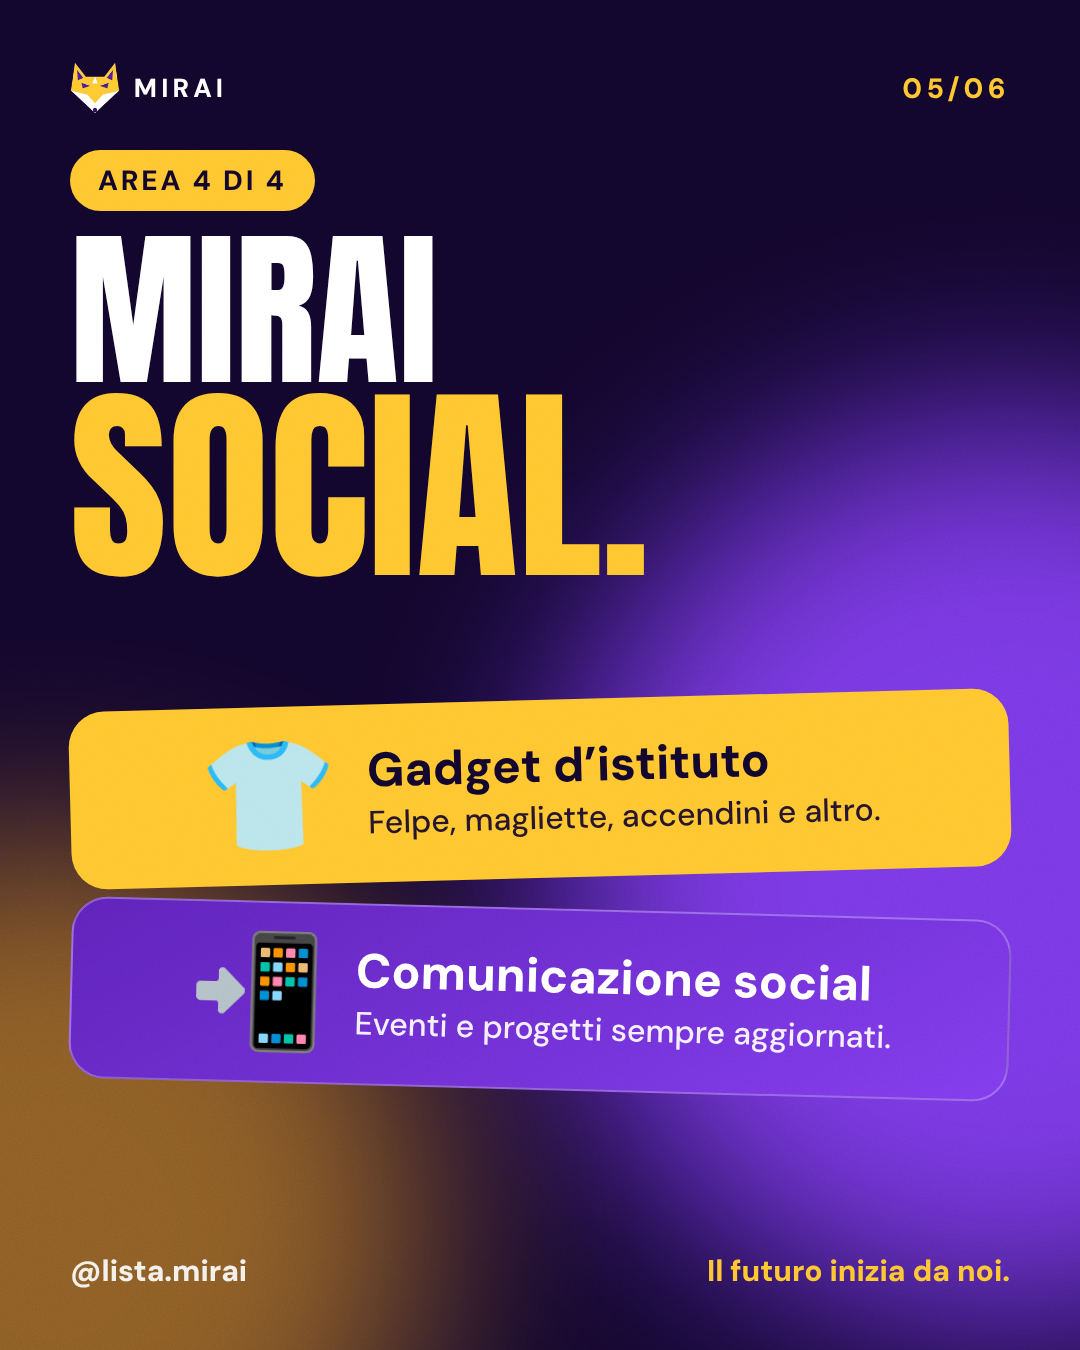
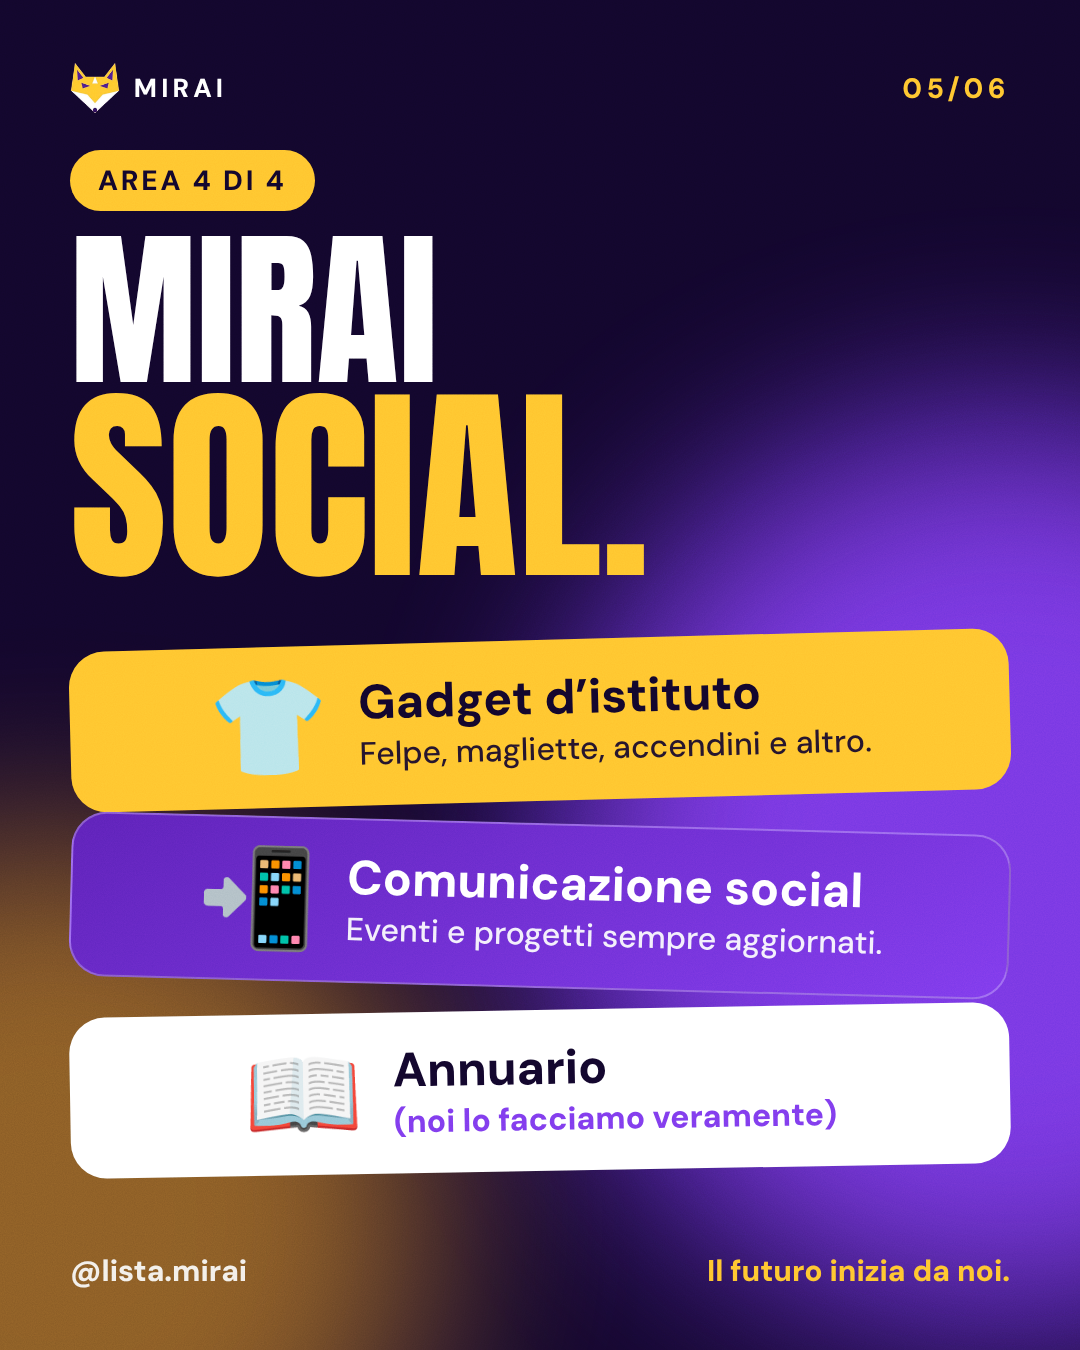
Programma: annuario in Mirai Social

Changed region(s): [[0.0611, 0.4667, 0.9472, 0.8711]]

diff --git a/social/campagna/campagna.html b/social/campagna/campagna.html
@@ -79,9 +79,10 @@ body{background:#000;font-family:"DM Sans",sans-serif}
 <section class="c p v2" id="g3"><div class="blob b1"></div><div class="blob b2"></div><div class="brand"><img src="../../assets/fox-96.png" alt="">Mirai</div><div class="n">04/06</div><div style="position:absolute;left:70px;right:70px;top:150px;z-index:8"><span class="kick">Area 3 di 4</span><div class="A" style="margin-top:20px"><div class="w" data-box="940" data-max="150">Le assemblee?</div><div class="g" data-box="940" data-max="170">Le scegliete voi.</div></div></div>
  <div style="position:absolute;left:70px;right:70px;top:570px;z-index:8;display:grid;grid-template-columns:1fr 1fr;gap:22px"><div class="card gold" style="flex:none;height:300px;justify-content:flex-start;gap:6px"><div class="A" style="font-size:60px;opacity:.5;line-height:1">01</div><b style="font-size:40px">I temi</b><span style="font-size:29px">Gli argomenti li propongono gli studenti.</span></div><div class="card vi" style="flex:none;height:300px;justify-content:flex-start;gap:6px"><div class="A" style="font-size:60px;opacity:.5;line-height:1">02</div><b style="font-size:40px">Più ospiti</b><span style="font-size:29px">Esperti e professionisti da portare a scuola.</span></div><div class="card li" style="flex:none;height:300px;justify-content:flex-start;gap:6px"><div class="A" style="font-size:60px;opacity:.5;line-height:1">03</div><b style="font-size:40px">Dibattiti</b><span style="font-size:29px">Domande e confronto tra studenti e ospiti.</span></div><div class="card wh" style="flex:none;height:300px;justify-content:flex-start;gap:6px"><div class="A" style="font-size:60px;opacity:.5;line-height:1">04</div><b style="font-size:40px">Orientamento</b><span style="font-size:29px">Università e lavoro, con informazioni concrete.</span></div></div><div class="handle"><span>@lista.mirai</span><b>Il futuro inizia da noi.</b></div></section>
 <section class="c p v0" id="g4"><div class="blob b1"></div><div class="blob b2"></div><div class="brand"><img src="../../assets/fox-96.png" alt="">Mirai</div><div class="n">05/06</div><div style="position:absolute;left:70px;right:70px;top:150px;z-index:8"><span class="kick">Area 4 di 4</span><div class="A" style="margin-top:20px"><div class="w" data-box="940" data-max="170">Mirai</div><div class="g" data-box="940" data-max="210">Social.</div></div></div>
- <div style="position:absolute;left:70px;right:70px;top:700px;z-index:8;display:flex;flex-direction:column;gap:30px">
-  <div class="card gold" style="flex:none;flex-direction:row;align-items:center;gap:30px;transform:rotate(-1.5deg)"><span style="font-size:110px;margin:0;opacity:1">👕</span><div><b style="font-size:48px">Gadget d’istituto</b><span style="font-size:32px">Felpe, magliette, accendini e altro.</span></div></div>
-  <div class="card vi" style="flex:none;flex-direction:row;align-items:center;gap:30px;transform:rotate(1.5deg)"><span style="font-size:110px;margin:0;opacity:1">📲</span><div><b style="font-size:48px">Comunicazione social</b><span style="font-size:32px">Eventi e progetti sempre aggiornati.</span></div></div></div><div class="handle"><span>@lista.mirai</span><b>Il futuro inizia da noi.</b></div></section>
+ <div style="position:absolute;left:70px;right:70px;top:640px;z-index:8;display:flex;flex-direction:column;gap:22px">
+  <div class="card gold" style="flex:none;flex-direction:row;align-items:center;gap:30px;transform:rotate(-1.5deg)"><span style="font-size:96px;margin:0;opacity:1">👕</span><div><b style="font-size:48px">Gadget d’istituto</b><span style="font-size:32px">Felpe, magliette, accendini e altro.</span></div></div>
+  <div class="card vi" style="flex:none;flex-direction:row;align-items:center;gap:30px;transform:rotate(1.5deg)"><span style="font-size:96px;margin:0;opacity:1">📲</span><div><b style="font-size:48px">Comunicazione social</b><span style="font-size:32px">Eventi e progetti sempre aggiornati.</span></div></div>
+  <div class="card wh" style="flex:none;flex-direction:row;align-items:center;gap:30px;transform:rotate(-1deg)"><span style="font-size:96px;margin:0;opacity:1">📖</span><div><b style="font-size:48px">Annuario</b><span style="font-size:32px;font-weight:800;color:#7c3aed;opacity:1">(noi lo facciamo veramente)</span></div></div></div><div class="handle"><span>@lista.mirai</span><b>Il futuro inizia da noi.</b></div></section>
 <section class="c p v2" id="g5"><div class="blob b1"></div><div class="blob b2"></div><div class="brand"><img src="../../assets/fox-96.png" alt="">Mirai</div><div class="n">06/06</div>
  <div class="ctr" style="top:150px;bottom:230px"><span class="kick">Lista 3 · Mirai</span>
   <div class="A" style="display:flex;flex-direction:column;align-items:center"><div class="o" data-box="940" data-max="200">Meno slogan.</div><div class="w" data-box="940" data-max="260">Più cose</div><div class="g" data-box="940" data-max="330">fatte.</div></div>

diff --git a/social/campagna/build.py b/social/campagna/build.py
@@ -58,9 +58,10 @@ def sq(t,x,c,n):return f'<div class="card {c}" style="flex:none;height:300px;jus
 H+=sec('p','g3',BR+'<div class="n">04/06</div>'+'''<div style="position:absolute;left:70px;right:70px;top:150px;z-index:8"><span class="kick">Area 3 di 4</span><div class="A" style="margin-top:20px"><div class="w" data-box="940" data-max="150">Le assemblee?</div><div class="g" data-box="940" data-max="170">Le scegliete voi.</div></div></div>
  <div style="position:absolute;left:70px;right:70px;top:570px;z-index:8;display:grid;grid-template-columns:1fr 1fr;gap:22px">'''+sq('I temi','Gli argomenti li propongono gli studenti.','gold','01')+sq('Più ospiti','Esperti e professionisti da portare a scuola.','vi','02')+sq('Dibattiti','Domande e confronto tra studenti e ospiti.','li','03')+sq('Orientamento','Università e lavoro, con informazioni concrete.','wh','04')+'</div>'+HAND(),'v2')
 H+=sec('p','g4',BR+'<div class="n">05/06</div>'+'''<div style="position:absolute;left:70px;right:70px;top:150px;z-index:8"><span class="kick">Area 4 di 4</span><div class="A" style="margin-top:20px"><div class="w" data-box="940" data-max="170">Mirai</div><div class="g" data-box="940" data-max="210">Social.</div></div></div>
- <div style="position:absolute;left:70px;right:70px;top:700px;z-index:8;display:flex;flex-direction:column;gap:30px">
-  <div class="card gold" style="flex:none;flex-direction:row;align-items:center;gap:30px;transform:rotate(-1.5deg)"><span style="font-size:110px;margin:0;opacity:1">👕</span><div><b style="font-size:48px">Gadget d’istituto</b><span style="font-size:32px">Felpe, magliette, accendini e altro.</span></div></div>
-  <div class="card vi" style="flex:none;flex-direction:row;align-items:center;gap:30px;transform:rotate(1.5deg)"><span style="font-size:110px;margin:0;opacity:1">📲</span><div><b style="font-size:48px">Comunicazione social</b><span style="font-size:32px">Eventi e progetti sempre aggiornati.</span></div></div></div>'''+HAND(),'v0')
+ <div style="position:absolute;left:70px;right:70px;top:640px;z-index:8;display:flex;flex-direction:column;gap:22px">
+  <div class="card gold" style="flex:none;flex-direction:row;align-items:center;gap:30px;transform:rotate(-1.5deg)"><span style="font-size:96px;margin:0;opacity:1">👕</span><div><b style="font-size:48px">Gadget d’istituto</b><span style="font-size:32px">Felpe, magliette, accendini e altro.</span></div></div>
+  <div class="card vi" style="flex:none;flex-direction:row;align-items:center;gap:30px;transform:rotate(1.5deg)"><span style="font-size:96px;margin:0;opacity:1">📲</span><div><b style="font-size:48px">Comunicazione social</b><span style="font-size:32px">Eventi e progetti sempre aggiornati.</span></div></div>
+  <div class="card wh" style="flex:none;flex-direction:row;align-items:center;gap:30px;transform:rotate(-1deg)"><span style="font-size:96px;margin:0;opacity:1">📖</span><div><b style="font-size:48px">Annuario</b><span style="font-size:32px;font-weight:800;color:#7c3aed;opacity:1">(noi lo facciamo veramente)</span></div></div></div>'''+HAND(),'v0')
 H+=sec('p','g5',BR+'''<div class="n">06/06</div>
  <div class="ctr" style="top:150px;bottom:230px"><span class="kick">Lista 3 · Mirai</span>
   <div class="A" style="display:flex;flex-direction:column;align-items:center"><div class="o" data-box="940" data-max="200">Meno slogan.</div><div class="w" data-box="940" data-max="260">Più cose</div><div class="g" data-box="940" data-max="330">fatte.</div></div>
